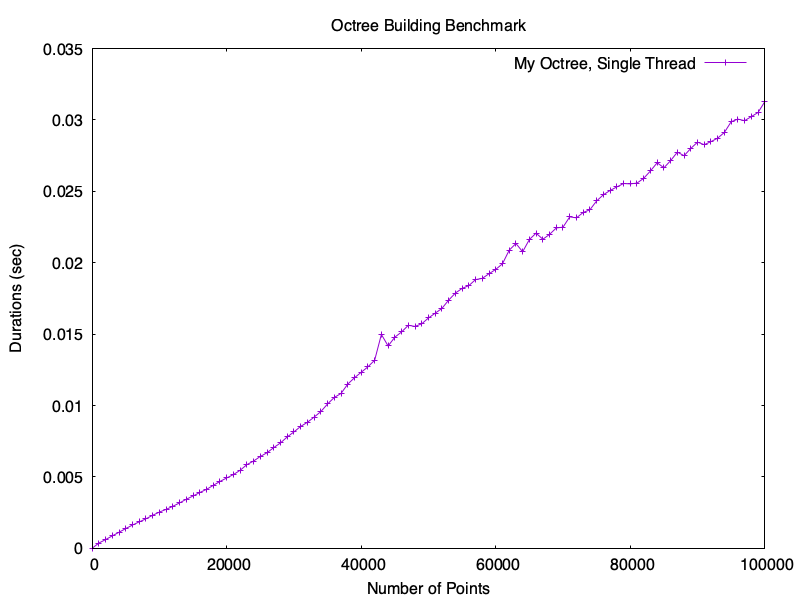
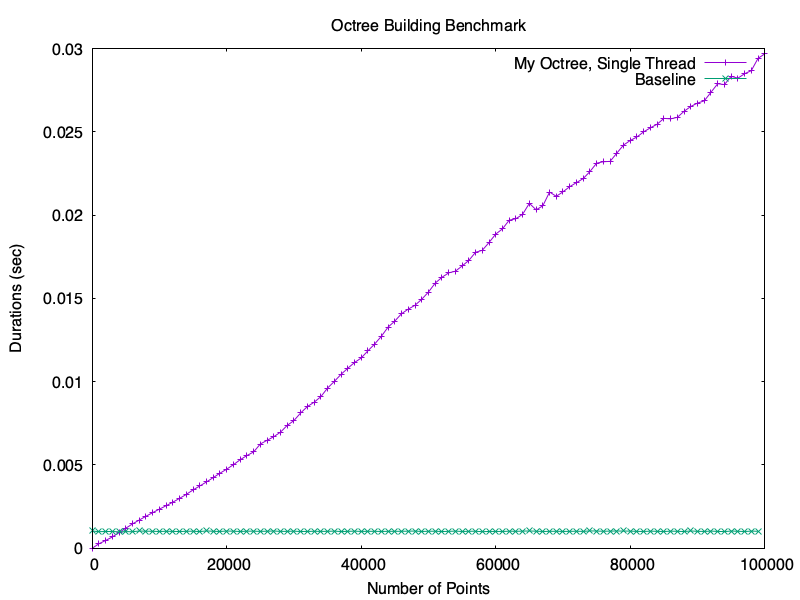
baseline added for comparision
There is no change in baseline?

diff --git a/bin/bench.rs b/bin/bench.rs
@@ -1,14 +1,42 @@
 #[macro_use]
 extern crate timeit;
 
+use std::collections::BTreeMap;
 use std::fs::File;
 use std::io::{BufRead, BufReader};
-use std::collections::BTreeMap;
+use std::vec::Vec;
 
 use gnuplot::{AxesCommon, Caption, Figure};
+use other_octree::Octree as OtherOctree;
 
 use octree::point::Point3D;
 use octree::Octree;
+
+// To satisfy the other crate's requirement.
+struct Point3DIterator {
+    points: Vec<Point3D>,
+}
+
+struct Wapper(Vec<Point3D>);
+
+impl IntoIterator for Wapper {
+    type Item = [f64; 3];
+    type IntoIter = Point3DIterator;
+
+    fn into_iter(self) -> Self::IntoIter {
+        Point3DIterator { points: self.0 }
+    }
+}
+
+impl Iterator for Point3DIterator {
+    type Item = [f64; 3];
+
+    fn next(&mut self) -> Option<Self::Item> {
+        self.points
+            .pop()
+            .map(|p| [p.x as f64, p.y as f64, p.z as f64])
+    }
+}
 
 fn read_points(file: File) -> Vec<Point3D> {
     let reader = BufReader::new(file);
@@ -29,9 +57,25 @@ fn read_points(file: File) -> Vec<Point3D> {
 fn bench_test(points: &Vec<Point3D>) -> BTreeMap<usize, f64> {
     let mut results = BTreeMap::new();
     for i in (0..=points.len()).step_by(1000) {
-        results.insert(i, timeit_loops!(10, {
-            Octree::new(points.iter().take(i).collect());
-        }));
+        results.insert(
+            i,
+            timeit_loops!(10, {
+                Octree::new(points.iter().take(i).collect());
+            }),
+        );
+    }
+    results
+}
+
+fn bench_test_baseline(points: &Vec<Point3D>) -> BTreeMap<usize, f64> {
+    let mut results = BTreeMap::new();
+    for i in (0..points.len()).step_by(1000) {
+        results.insert(
+            i,
+            timeit_loops!(10, {
+                OtherOctree::new(Wapper(points.clone()));
+            }),
+        );
     }
     results
 }
@@ -42,19 +86,29 @@ fn main() -> Result<(), Box<dyn std::error::Error>> {
     let file = File::open("./data/points.txt")?;
     let points = read_points(file);
     let results = bench_test(&points);
+    let baseline_results = bench_test_baseline(&points);
     let output_path = "./data/bench.png";
 
     let mut figure = Figure::new();
     let num_points: Vec<usize> = results.keys().cloned().collect();
     let durations: Vec<f64> = results.values().cloned().collect();
+    let durations_baseline: Vec<f64> = baseline_results.values().cloned().collect();
 
-    figure.axes2d()
-    .lines_points(&num_points, &durations, &[Caption("My Octree, Single Thread")])
-    .set_title("Octree Building Benchmark", &[])
-    .set_x_label("Number of Points", &[])
-    .set_y_label("Durations (sec)", &[]);
+    figure
+        .axes2d()
+        .lines_points(
+            &num_points,
+            &durations,
+            &[Caption("My Octree, Single Thread")],
+        )
+        .lines_points(&num_points, &durations_baseline, &[Caption("Baseline")])
+        .set_title("Octree Building Benchmark", &[])
+        .set_x_label("Number of Points", &[])
+        .set_y_label("Durations (sec)", &[]);
 
-    figure.save_to_png(output_path, 800, 600).expect("Failed to save figure");
+    figure
+        .save_to_png(output_path, 800, 600)
+        .expect("Failed to save figure");
 
     Ok(())
 }

diff --git a/src/point.rs b/src/point.rs
@@ -7,9 +7,9 @@ use crate::Locatable;
 /// all points it has seen, so [PartialEq], [Eq]. and [Hash] must be defined as well.
 #[derive(Clone, Debug, Default)]
 pub struct Point3D {
-    x: f32,
-    y: f32,
-    z: f32,
+    pub x: f32,
+    pub y: f32,
+    pub z: f32,
 }
 
 impl PartialEq for Point3D {
